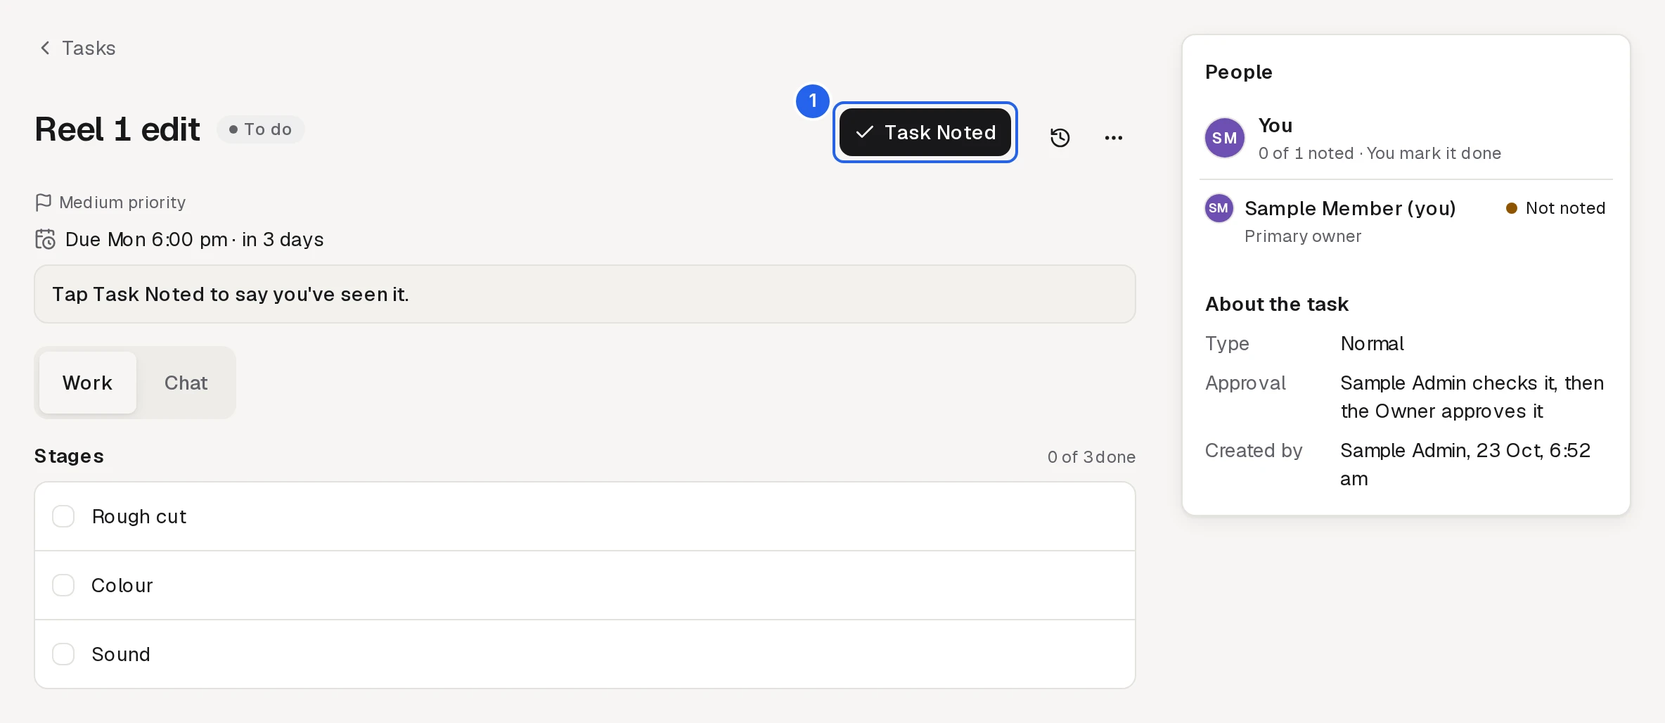
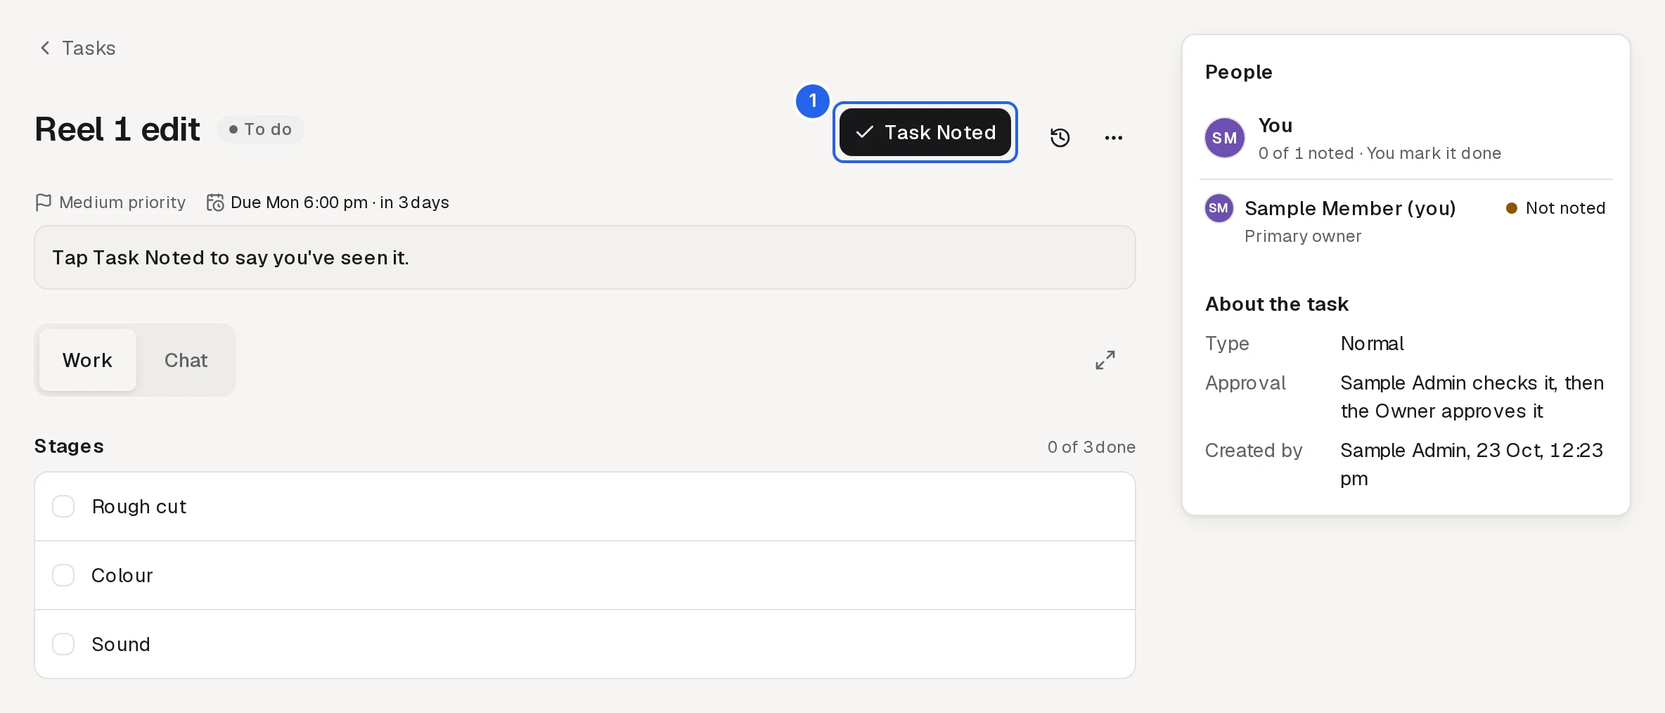
docs(task chat height): the task-page guide pictures re-made; sample-vs-built pairs at 1280 and 1440, dark and light
pnpm guide:screenshots for the task-page topics (Remind now inside the
laptop's next-step box); the other pictures the run touched changed only by
the day's data and are left as committed. The pairs (header, sticky bar,
enlarged chat) are in docs/reviews/v18-polish/chat-height/. No layout change.

Claude-Session: https://claude.ai/code/session_01R4rbGDnSdkJEG53XNkkE9D

diff --git a/src/modules/guide/domain/shots.generated.ts b/src/modules/guide/domain/shots.generated.ts
@@ -56,13 +56,13 @@ export const GUIDE_SHOTS: Readonly<
   "staff/task-noted": {
     src: "/guide/staff/task-noted.webp",
     width: 1184,
-    height: 514,
+    height: 507,
     alt: "A new task's page with the Task Noted button highlighted.",
   },
   "staff/task-stages": {
     src: "/guide/staff/task-stages.webp",
     width: 1216,
-    height: 524,
+    height: 517,
     alt: "A started task with its list of stages highlighted, the first one ticked.",
   },
   "staff/mark-done": {
@@ -128,7 +128,7 @@ export const GUIDE_SHOTS: Readonly<
   "admin/task-review": {
     src: "/guide/admin/task-review.webp",
     width: 1184,
-    height: 724,
+    height: 717,
     alt: "A handed-in task with the Request changes and Approve buttons highlighted.",
   },
   "admin/task-stages": {
@@ -302,19 +302,19 @@ export const GUIDE_SHOTS: Readonly<
   "owner/task-approve": {
     src: "/guide/owner/task-approve.webp",
     width: 1184,
-    height: 724,
+    height: 717,
     alt: "A task the Admin has checked, with the Owner's Approve button highlighted.",
   },
   "owner/task-menu": {
     src: "/guide/owner/task-menu.webp",
     width: 1184,
-    height: 724,
+    height: 717,
     alt: "A task's menu open with Decide it yourself highlighted.",
   },
   "owner/remind": {
     src: "/guide/owner/remind.webp",
-    width: 1216,
-    height: 642,
+    width: 1184,
+    height: 583,
     alt: "A task not noted yet, with the Remind button highlighted.",
   },
   "owner/calendar": {

diff --git a/docs/PROGRESS.md b/docs/PROGRESS.md
@@ -148,7 +148,7 @@
 6. **V5a item 6b, the "only when unused" Delete kinds: DECIDED by the owner directly (22 Oct, "any reference counts as used": history, archived or deleted rows, paid or closed claims, a job title someone once held, old custom-field values, a task type named only by an archived or deleted template, a draft's contact, note, file, task label or request) and BUILT in V5e (item 6c) for task types, job titles, expense categories, custom fields, draft clients and contacts as a real row delete (DATA-MODEL §2 "The Owner-only Delete of what was never used"). The original question, for the record:** The rule lists task types, job titles, expense categories, custom fields, draft clients and contacts, "only when unused", but "unused" is not settled for any of them: (a) **does history count?** A job title once held by someone and since changed, an expense category on a past (paid) claim, a custom field whose values sit only in old activity diffs, a draft client's own creation history: if a deleted row's name is later needed to read that history, a real delete loses it (the "(deleted)" label approach would need a soft state on each of these tables too); (b) **do archived or deleted rows count?** A task type referenced only by an archived or deleted task template (whose foreign key stays); a contact on a draft client; (c) **draft clients:** is a draft with contacts, notes, files, a task label or a request "used"? Recommended: treat any reference at all, history included, as "used" (so Delete is offered only to a row nothing has ever pointed at), with a soft deleted state like templates so names in history keep reading; awaiting the owner.
 
 ## In-progress handoff
-- **v1.8 task chat height, LAPTOP ONLY (2026-10-23, Opus builder; branch `r3-v5b-chath` from `phase-6b-r3` 54735a1; not pushed, not merged).** Owner-approved 23 Oct, sample `docs/design/v18-task-chat-height-sample.html` (its phone section superseded: **the phone is unchanged**). Built on `/tasks/[id]` from `md` (where the right column shows): (1) a tighter header, the same on Work and Chat (priority and deadline on one 12px line, `task-meta`; Remind inside the next-step box at its right end as the neutral outline, `task-next-box`; both wrappers are `max-md:contents`, so the phone's DOM order and boxes are as before); (2) the chat panel fills from the tabs to the screen's foot, composer pinned, and (3) the Work | Chat bar sticks under the top bar as the header scrolls away, with "‹title› · ‹relative deadline›" beside it once stuck (`data-stuck`), while the panel grows to fill the screen below it: `useChatSpace` (`task-chat.tsx`) writes the panel's height and the space it keeps (`chatSpace`, `domain/chat-space.ts`, unit-tested) once a frame on scroll/resize/ResizeObserver, so the page scrolls exactly until the bar sticks; the chat head then carries the People card's key line ("· Noted"); Details is `static` beside Chat (scrolls away, as the sample), sticky on Work as before; (4) **⤢** (44 px, right end of the bar) opens the chat as a large `Sheet` over the dimmed page ("‹title› · chat with ‹names›", state · deadline, ✕); back, Esc and ✕ close it and the scroll position is restored (`TaskViewProvider`); the draft carries over; (5) the People / About card stays in the right column. **Deviation, flagged:** the stuck bar names the task's **title** (the sample's "Edit" is the task's title, its type is Posting), not its type. A short laptop screen with a band at its foot keeps the panel at its 320px minimum (the page scrolls, then the bar sticks). Skeleton (`loading.tsx`, `task-page-skeleton.tsx`) traces the new laptop header (one meta line, the 44px box with Remind for the Owner/Admin, the bar's padding and ⤢). Specs (`e2e/task-page.spec.ts`): "the laptop's chat space" at 1280 and 1440 (one header on Work and Chat, the fill, the sticky bar, scroll limits) and installed ⤢ (back, Esc, ✕, scroll restored, draft kept, views add no history); "the phone's task page is unchanged" at 375 and 430. Guide: Owner/Admin/Crew "Chat on a task" and Owner/Admin Remind wording. **Verified after the container restart (23 Oct):** Remind on a laptop is a full 44px target inside a 46px next-step box (box and skeleton traced the same; the phone's Remind unchanged, `min-h-11` as before); `pnpm check` green (unit 2387, pgTAP 5771 in 93 files, build, budgets: /tasks/[id] 817.0 / 835 KB, none raised); Playwright at 1 worker after `db:reset` (setup, desktop, mobile, mobile-lg): task-page + tasks + instant-skeleton 112 passed / 54 skipped (the projects' own) / 0 failed; back-gesture + loading-screens filtered to "task" 51 passed / 1 skipped / 0 failed. **Left for a follow-up commit (coordinator, 23 Oct: the owner is waiting):** `pnpm guide:screenshots` for the task-page topics and the sample-vs-built pairs in `docs/reviews/v18-polish/chat-height/` (1280/1440, dark/light).
+- **v1.8 task chat height, LAPTOP ONLY (2026-10-23, Opus builder; branch `r3-v5b-chath` from `phase-6b-r3` 54735a1; not pushed, not merged).** Owner-approved 23 Oct, sample `docs/design/v18-task-chat-height-sample.html` (its phone section superseded: **the phone is unchanged**). Built on `/tasks/[id]` from `md` (where the right column shows): (1) a tighter header, the same on Work and Chat (priority and deadline on one 12px line, `task-meta`; Remind inside the next-step box at its right end as the neutral outline, `task-next-box`; both wrappers are `max-md:contents`, so the phone's DOM order and boxes are as before); (2) the chat panel fills from the tabs to the screen's foot, composer pinned, and (3) the Work | Chat bar sticks under the top bar as the header scrolls away, with "‹title› · ‹relative deadline›" beside it once stuck (`data-stuck`), while the panel grows to fill the screen below it: `useChatSpace` (`task-chat.tsx`) writes the panel's height and the space it keeps (`chatSpace`, `domain/chat-space.ts`, unit-tested) once a frame on scroll/resize/ResizeObserver, so the page scrolls exactly until the bar sticks; the chat head then carries the People card's key line ("· Noted"); Details is `static` beside Chat (scrolls away, as the sample), sticky on Work as before; (4) **⤢** (44 px, right end of the bar) opens the chat as a large `Sheet` over the dimmed page ("‹title› · chat with ‹names›", state · deadline, ✕); back, Esc and ✕ close it and the scroll position is restored (`TaskViewProvider`); the draft carries over; (5) the People / About card stays in the right column. **Deviation, flagged:** the stuck bar names the task's **title** (the sample's "Edit" is the task's title, its type is Posting), not its type. A short laptop screen with a band at its foot keeps the panel at its 320px minimum (the page scrolls, then the bar sticks). Skeleton (`loading.tsx`, `task-page-skeleton.tsx`) traces the new laptop header (one meta line, the 44px box with Remind for the Owner/Admin, the bar's padding and ⤢). Specs (`e2e/task-page.spec.ts`): "the laptop's chat space" at 1280 and 1440 (one header on Work and Chat, the fill, the sticky bar, scroll limits) and installed ⤢ (back, Esc, ✕, scroll restored, draft kept, views add no history); "the phone's task page is unchanged" at 375 and 430. Guide: Owner/Admin/Crew "Chat on a task" and Owner/Admin Remind wording. **Verified after the container restart (23 Oct):** Remind on a laptop is a full 44px target inside a 46px next-step box (box and skeleton traced the same; the phone's Remind unchanged, `min-h-11` as before); `pnpm check` green (unit 2387, pgTAP 5771 in 93 files, build, budgets: /tasks/[id] 817.0 / 835 KB, none raised); Playwright at 1 worker after `db:reset` (setup, desktop, mobile, mobile-lg): task-page + tasks + instant-skeleton 112 passed / 54 skipped (the projects' own) / 0 failed; back-gesture + loading-screens filtered to "task" 51 passed / 1 skipped / 0 failed. **Follow-up done (23 Oct, after the merge into `phase-6b-r3` 8b9d2f0):** `pnpm guide:screenshots` re-made the task-page pictures (staff task-noted, task-stages, mark-done; admin task-review, task-stages; owner task-approve, task-menu, remind: Remind now inside the next-step box); the run's other pictures changed only by the day's data and were left as committed. Sample-vs-built pairs in `docs/reviews/v18-polish/chat-height/` (header, sticky, enlarged × 1280/1440 × dark/light; the sample's mocks are its own fixed-size frames, the build is the Owner's full page on local data, with the "Notifications are off" band headless Chromium shows). No layout changed.
 - **v1.8 unit V5a (2026-10-21, Opus builder; branch `r3-v5` from `phase-6b-r3` 7a27f12 = main + V0–V4; not pushed, not merged). PAUSED before item 6.** Commits per item: `03a5336` **1 the approved colour plan** (owner 21 Oct, "colour plan approved with forest"): Forest `approve` on Approve (task Approve trigger and its confirm, the Approvals review sheets' Approve for attendance and expenses), **Approve all** (each group's trigger and its confirm), **Mark done** (task trigger and its dialog's commit, the deliverable sheet, the bulk bar's "Mark N done" and its confirm), **Grant comp leave** (trigger and commit; the notes review's commit when it grants); `ConfirmDialog` / `ReasonDialog` take `approve`; a solid trigger that only opens the commit's layer passes `opens` (`data-opens`, counted as a trigger by the e2e one-solid fixture, never offline-disabled by default); Request changes on a task is a quiet outline; `status-tones`: `open` grey → blue (the chip table); DESIGN §4 tables, **ADR-0015 amendment 2026-10-21**; guards: `final-actions.test` (Approve / Mark done / Grant commits are `approve`, never approve+destructive, a red "Cancel …" never dismissed by a bare "Cancel"), `status-badge.test` (the chip table, `approve` white text ≥ 4.5:1 and its edge ≥ 3:1 on page and card, both themes); guide (Approvals' green Approve all, the colour sentence, Mark done green). `bfe8aec` **2 B7 fallback** (owner 21 Oct): migration `20261021080027_v5_revision_round_before_posted` (expand-only: `item_add_revision_round` re-created, same signature, grants, permission): with neither a revision nor an "Edit" stage, just before the first "Posted" / "Published" / "Delivered" (ignoring case and spaces) as the list shows it, in its group; none: after the last stage; pgTAP **86** (28 tests: each go-out word, case, two go-out stages, inside a group, keys with no room, neither, existing paths unchanged, history row, Owner / Admin / other Admin NOT_FOUND / Crew FORBIDDEN / anon 42501, grants) and **83**'s "neither" assertion follows the decision; DATA-MODEL, WORKFLOWS, guide. `707417e` **3a/3b** project page **month tabs** (previous · this · next in one segmented control, `ViewLink` replace, the Previous/Next accessible names kept) and Details **Client contact** (primary, else first active; `listContacts`) and **Template** (`getProjectTemplateName`, "None" when started blank, left out when RLS hides it), both in the page's first wave, no money; skeleton re-traced; guide. `118e60a` + `1c6226e` **3c the laptop Calendar's selected-day panel** (L7 remainder): from `lg` the Month shows the selected day beside it (`DayPanel`: the dialog's compact agenda, V4's availability rules, Owner/Admin only, footer with New task on / Suggest a task and Open day); a tap is view state (replaces the address); between `md` and `lg` the dialog stays, Week keeps its dialog; not a layer (no back spec); the panel's code is its own chunk, server-drawn (/calendar 710.8 / 712 KB); skeleton traces the column; guide (Admin's stale "Who's free" fixed too). `68b2383` **4 the consistency sweep**: DESIGN.md **§6a Patterns** inventory (concept → pattern → screens → before/after); **History** = the header clock (`HistoryButton`, `HistorySheet`, `core/ui/composites`) on the project (label Activity → History), the **task** (the Activity view removed: Work · Chat · Details; `?tab=activity` lands on Work with the sheet open) and the **client** (the Activity tab removed: three tabs; `/clients/[id]/activity` redirects to `?history=1`, the sheet opens and drops it by replace); the person page has no history read (none added); header anatomy History then ⋯ then the bell (wraps at 200%); **`ICONS`** map (`core/ui/icons.ts`) + `icons.test.ts` (no ⋯/Edit synonyms; History's clock and Remind's bell only from the map): the card list's ⋯ (was `EllipsisIcon`) and Remind's bell (was `BellRingIcon`) moved; skeletons re-traced (task tabs and header, client header); guide (Owner, Admin, Crew). Not changed by the sweep (recorded in §6a for V5b): status-chip placement in the headers. `2a789d2` **5 B11, app side**: `appVersionFrom` prefers `APP_COMMIT_SHA` (unit-tested; `.env.example`). **The deploy.yml line was NOT committed**: the session's permission check refused a commit touching `.github/workflows/deploy.yml` ("Production Deploy"); the exact staging-only diff (add `APP_COMMIT_SHA: ${{ github.event.workflow_run.head_sha }}` to the staging job's "Build the Worker (OpenNext)" step env) is in the V5a report for the owner/advisor to apply. **Item 6 (Edit · Archive · Delete) not started** — exact next steps: (a) rename V4's Settings "Delete" (= archive) back to **Archive** (`ListRowActions` label + `ICONS.archive`, neutral confirm, Undo kept; final-actions.test's Archive rule; specs settings, task-settings, task-requests, custom-fields, project-templates, client-work); (b) a new expand-only migration `v5_owner_delete`: one `security definer` function per kind (`search_path=''`, Owner check via the permission helpers, `select … for update` + "referenced?" check in the same transaction, `activity_log` row {name, id, by} BEFORE the delete, grants revoked from public/anon): project/deliverable/task templates and stage presets (always), task types (no task), job titles (no member), expense categories (no claim), custom fields (no value), holidays (before their date), draft clients (never activated, nothing linked), contacts (unlinked); no function for people, attendance, leave, comp leave, expenses, tasks, projects, cycles, deliverables, approvals, history, notifications, money; pgTAP per kind (Owner unused ✓, Owner used → refused naming the count, Admin/Crew/anon denied); (c) UI: Delete in the row ⋯ for the Owner only, the red `danger` confirm "Delete template 'Retainer 1'? This can't be undone." with "Keep it", or "Used by N … Archive it instead"; (d) PERMISSIONS / DATA-MODEL / WORKFLOWS / guide; Playwright: delete an unused template, blocked on a used task type, Admin sees no Delete. **Specs changed where V5a deliberately changes the outcome:** task-page (`approve` on Mark done / Approve, Request changes `secondary`; the History sheet instead of the Activity view; tabs Work · Chat; an old `?tab=activity` link test), owner-review (review Approve `approve`), dashboards (Needs you counts `approve` among solids), client-work (month-tab and Details checks; the header button is "History"), calendar (the laptop Month's day reads the panel; the Escape-to-close steps for it removed; Week's due chip still opens the dialog; → moves a week from the selected day), clients (History sheet, three tabs, the old path with its allowed document load), back-link and notifications (another view than Activity: Chat on a laptop, Details on a phone), loading-screens (the `?tab=activity` trace removed: no such view), guide-shots (the calendar-day shot crops the panel; client tabs alt); unit: `page.test` (no Activity view), `route-key.test` (no Activity tab), `loading-routes.test` (the redirect in NO_DATA). **Tests:** `pnpm check` green after items 1–4 (unit 2214 passed; pgTAP 5574 passed in 89 files; build; every route within budget: /calendar 710.8 / 712 KB, the project page 725.2 KB, /tasks/[id] 796.5 KB, none raised). **Playwright** (setup, desktop, mobile, mobile-lg, `--workers=2`, `db:reset` before each chunk; local only): chunk A (calendar, client-work, task-page, owner-review, deliverables-list, dashboards, deliverables-bulk; items 1–3): 253 passed, 88 skipped, 3 failed, 8 did not run (two spec mistakes of mine: Week's popup after the panel, the first cycle's two-tab count; fixed); chunk B (calendar, client-work, task-page, clients, back-link, notifications; after item 4): 278 passed, 63 skipped, 6 failed, 8 did not run (the History sheet left open before ⋯; the old path's redirect document load; → from the selected day; fixed); chunk C (clients, calendar, mobile, loading-screens, back-gesture): 518 passed, 62 skipped, 3 failed (the Month tap lost before the panel's chunk hydrated: **root cause**, the dynamic panel held the calendar's hydration; fixed by its own `Suspense` boundary; mobile.spec's old client path; fixed); chunk D (calendar, mobile, clients): 324 passed, 1 failed (the Day view's due chip opens the dialog; spec fixed); the laptop owner test 3× at 1 worker: green; calendar (all four projects, 2 workers): 27 passed, 1 failed once (Crew, installed, mobile: a tap on the day's event did not navigate), then green 8× at 1 worker and in a full 2-worker re-run (26 passed): **not root-caused** — the suspected cause is a Realtime `router.refresh()` from the Owner's parallel test (its tasks notify the Crew account) re-rendering the detail under the tap; logged for the integration's full CI run (1 worker per shard), which is the gate. Final `pnpm check` (after every commit): green, unit 2215, pgTAP 5574 (89 files), budgets as above. Not re-run after item 4: deliverables-list, dashboards, deliverables-bulk, owner-review (items 1–3 only touch them; green in chunk A). Skips are the projects' own.
 - **v1.8 unit V4 "Screens 2" built (2026-10-21, Opus builder; branch `r3-v4` from `phase-6b-r3` e52035e = main + V0–V3; not pushed, not merged).** Commits per ID: `5faf64d` **Save as template copies the structure only** (owner 16 Oct): migration `20261021042324_v4_save_as_template_structure` (expand-only: `project_save_as_template` re-created, same signature and grants; `description` null, `field_defaults` `{}`; templates already saved untouched; `item_save_as_template` already copied names only), pgTAP **85** (16: repeating and one-time projects, structure copied, description and fields not, the deliverable's names only, history row, CONFLICT, Owner, another Admin NOT_FOUND, Crew FORBIDDEN, anon) and 78's description assertion follows the decision; dialog and guide say so; DATA-MODEL, WORKFLOWS; `9227edf` **N3** Settings in four groups (Company and working days, Lists and fields, Templates, Integrations), each row its name over one line, phone and laptop (`SETTINGS_GROUPS`, `settingsGroupsFor`); the Stage presets card leaves the grid; `d4de79a` **6b.4 D6** one Settings list pattern: `ListRowActions` Edit · Delete (Delete = the archive, never red, Undo in the toast for 6 s, no Archived list) and Preview for templates; job titles, expense categories, task types, task templates, stage presets, custom fields, project and deliverable templates; the deliverable template's reason dialog is no longer red (the reason is kept, invariant 9); `3ee18df` **6b.6 the one Templates page**: Stage presets → Deliverable → Project, a divider, Task templates; one search; one Add per section; phone: a segmented control (view control, match counts while searching, `#presets|#deliverables|#projects|#tasks`); `/settings/stage-presets` redirects to `/settings/templates#presets` by replace (`loading-routes` NO_DATA); links, guide link and shot path, back-link (new redirect check), specs moved; `9842fa9` **6b.6 Thresholds + P5**: four groups (Working day, Tasks, Client work, Notifications; **Approvals joins with 6b.5**, which has no settings yet), each a row with a one-line summary (`thresholdGroupSummaries`, unit-tested; "Not noted: remind every 2 h → Admin at 4 h → Owner at 8 h"), opening in place (native details, a view control), a refused group opens itself; one Save, sticky on a laptop too; same keys, no migration; `2eb6605` **the MaxOff mark** on phone top-level tabs (owner 21 Oct): a header without back shows the M; tap → `/` (home) by replace; `c8dcf16` + `feba1b8` **W1** "deliverables" in reports, the calendar day, Owner Today, digest and weekly-summary emails, custom fields' tab and labels, activity panel, threshold messages; **W6** median in whole days; `71333ac` **N1** the Admin's Attendance & leave and Extra work & expenses in the sidebar and More; **N2** Help (`/me/guide`) in the account menu and the sidebar foot (every role); **W2** the menu says Me, guide sections say Alerts; `8de89ed` **W3** Keep project / Cancel project; **W4** no "(the Owner changes this)" for the Owner, Month report "MaxOff holds no salary; pay is worked out from these.", End of day without "Never money.", the Owner reads his own leave note as "You wrote: …"; `63f88d2` **calendar availability** (owner 21 Oct): the day lists only "On leave" and "Busy all day" (each only when someone), else "Everyone is available"; no free list, no part-day busy; Crew unchanged; `888118f` (+ `feba1b8`) **6b.10** 3not8studios in the invite email (four places), the page description and both HTML guides (PDFs: the laptop); `22bd9b9` **L1** People, Reports (Admin report, Month, End of day, EOD report) and Me drop their `max-w-*`; **W6** Leave, Half days, Absent as three rows, credits "2½ granted · 1½ used · ½ expired"; `d4c0740` **L9** New task: title, people, deadline first, the rest under **More options** (details; opens itself for an event type or a refused field; skeleton re-traced); New project: one short hint per section (`hints={false}` on the shared editors), a real **Browse templates** button; `763b44d` **L7 (part)** a laptop month cell names its one due task or deliverable ("Overdue · Reel 2 edit"), stronger leave bars. **Added in V4 at the owner's word (21 Oct, via the advisor):** `2eb6605` the MaxOff mark (above); `63f88d2` the calendar availability (above); `d2b9d6f` **final actions are red** (Close deliverable, Cancel project, every Settings Delete now `destructive`; Cancel task, Reject, Revoke, Cancel leave, Deactivate, Withdraw, Remove, Discard already were; Archive stays neutral), guarded by `src/core/ui/composites/final-actions.test.ts` (sweeps every ConfirmDialog/ReasonDialog commit label), and **Cancelled red again** in the one status map (reverses V2's C5); DESIGN §4 and ADR-0015's consequences say so; `bb6081e` **the project page matches the approved sample** (`docs/design/v18-project-page-sample.html` on main; the ring kept as built): a laptop table (header row Deliverable · Progress by group · Next · Planned; the name over "3 groups · 1 of 9 stages"; a line per group with a segmented bar and n/m, the single bar only for one long ungrouped list, `progressShape`; Next as a chip, or Mark done there once every stage is ticked, the first ready row's in Forest green: the new minimal `approve` Button variant, token `--approve` #15803D, counted by the e2e one-solid fixture and offline-disabled like primary; V5 extends it to Approve / Approve all / Grant comp leave; Planned in its own column, late in red; ⋯ and › on every laptop row); the phone keeps its cards with the per-group lines; Needs you only when something is late or nearly done (nothing otherwise, nothing reserved in the skeleton); Details a full-width field grid (Repeats, Delivery date, Notes, then the project fields; the sample's Client contact and Template cells need reads the page does not make today: left for V5); skeleton re-traced; unit tests `progressShape`, `groupsLine`; fixes `6e17579`, `1caeed1`, `23243dc`, `2cbfed3`, `83a6e6d` and the last fix commit (Settings rows' 20px lines and the skeleton's row structure, the Details cells at 200% text, a phone card with Mark done keeps one action). Screenshots (local test data): `/tmp/claude-0/-home-user-MaxOff/39506a05-ef02-5202-b49f-0a857de17fd9/scratchpad/v4-shots/{sample,built}-{laptop,375}.png` (not committed). **Not done, for V5:** the laptop Calendar selected-day panel (it replaces the month's day dialog and many calendar specs); S2 skipped as briefed. **Specs changed where V4 changes the outcome:** settings (Delete + Undo instead of Archive/Restore; Thresholds open their groups), task-settings, task-requests, custom-fields, project-templates, client-work (Delete, no Archived lists; Templates instead of Stage presets; the Today line says deliverables; Keep project), mobile (the confirm sheet's Delete, the 200% label selector, the long form opens its groups, the home-mark check at 375/430), loading-screens (Settings groups), back-link (stage presets → job titles/Templates; the old path's redirect by replace), back-gesture and push-quiet (open the Thresholds groups), auth and shell (the menu says Me; Help in the menu and the sidebar), calendar (availability line; More options), tasks (More options), deliverables (Browse templates), month-summary (three leave rows), guide-shots (presets path, Tasks group, More options). **Tests (final):** unit 2206 passed; pgTAP 5546 passed (88 files, +1: 85); `pnpm check` green; budgets: every route within its budget, none raised (`/settings/templates` 728 KB, the project page 724 KB). **Playwright** (setup, desktop, mobile, mobile-lg, `--workers=2`, `pnpm db:reset` before each chunk; local only): chunk A settings, task-settings, project-templates, custom-fields, task-requests, back-link, mobile, shell, auth: 461 passed, 53 skipped, 1 failed (a Thresholds save folded the open group: fixed `6e17579`); chunk B client-work, deliverables, deliverables-list, deliverables-bulk, calendar, tasks; chunk C back-gesture, loading-screens, guide, month-summary, team, notifications, onboarding, dashboards, freshness, sticky-actions, leave, expenses, task-page, owner-review, eod-report: 517 passed, 125 skipped, 5 failed (Settings and Owner Today traces); after the project-page work and every fix, the re-runs are green: loading-screens + deliverables-list + client-work + settings + tasks + calendar + mobile 565 passed / 70 skipped (then 6 left, fixed), deliverables + deliverables-bulk + owner-review + task-page + leave + expenses + team 551 passed, deliverables-list + mobile + task-page 316 passed / 17 skipped / 0 failed, loading-screens + settings 140 passed / 8 skipped / 0 failed. Skips are the projects' own (a spec for one width). Not re-run after the last fixes: chunk A's other files and chunk C's other files (they passed before the project-page commits, which touch neither). **Guide:** every touched topic (Settings, templates, presets, thresholds, New task, New project, calendar day, navigation for every role, Keep project, Save as template); screenshots are V5's.
 <!-- Filled by /save-progress when a session ends mid-task. Clear it when the task is finished. -->
